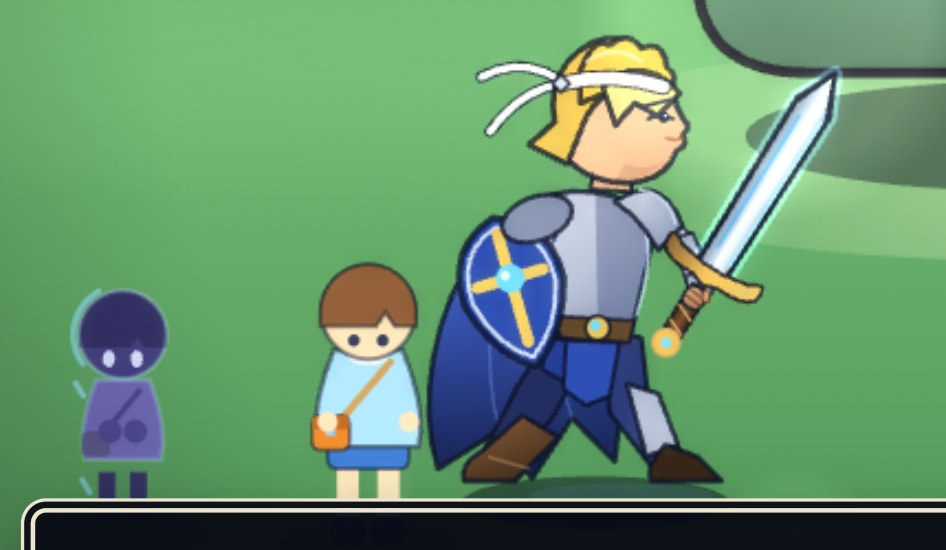
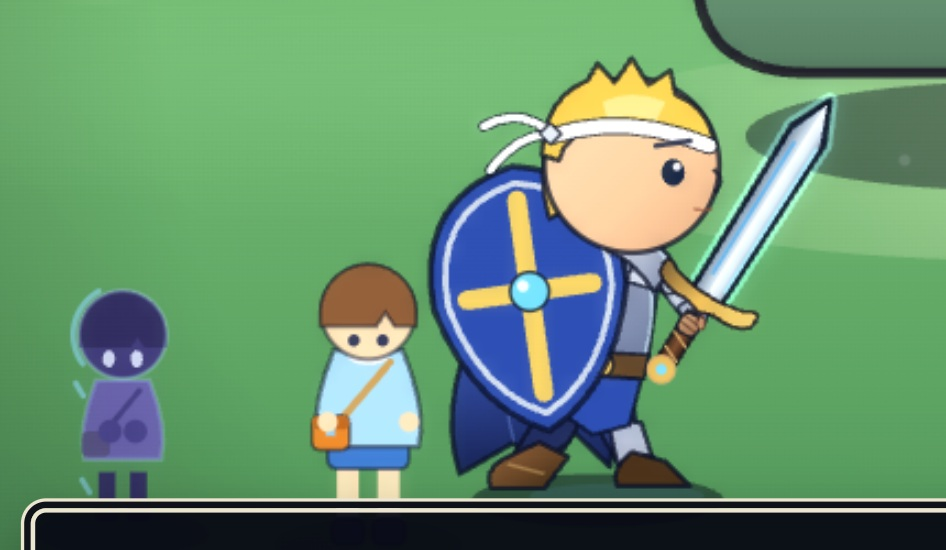
勇者の体を2.5頭身へ作り直し v20260810_1443(シート準拠・盾=体の6割)+/shimaのいま画像更新

Changed region(s): [[0.4292, 0.0, 0.981, 0.8964], [0.6438, 0.0, 0.6744, 0.0309]]

diff --git a/rpg.html b/rpg.html
@@ -907,7 +907,7 @@ const msgwinEl=$('#msgwin'), msgtextEl=$('#msgtext'), mfaceEl=$('#mface'), talks
 const enameEl=$('#ename'), toastEl=$('#toast'), battleUiEl=$('#ui-battle'), questEl=$('#quest');
 // 開きっぱなしの タブへ あたらしい 版を とどける(SPEC_gold_shuyaku §5・発注者「なんも変わらない」の根=タブは 勝手に 更新されない)
 // 強制リロードは しない(2026-07-11 進行破壊の 掟)。ゲームが 見つけて 知らせ、タップで きろくを 保存してから 入れ替える。
-const BUILD_V='20260810_1422'; // 配信の 版どり(§8)で この行を 実際の 版へ 書き換える
+const BUILD_V='20260810_1443'; // 配信の 版どり(§8)で この行を 実際の 版へ 書き換える
 let UPD_V=null;
 async function checkUpdate(){
   try{
@@ -18285,9 +18285,9 @@ function battleHeroStrikePoint(bt,kind){
   let hx=W*(0.36-0.075*wideK),hy=bt.heroY==null?H*0.80:bt.heroY;
   if(bt.intro)hx-=bt.intro*bt.intro*W*0.28;
   const guard=bt.guard?1:0,bodyY=hy+Math.sin((bt.t||0)*2.15)*u*0.7+guard*8*u;
-  let lx=30,ly=-110;
-  if(kind==='shield'){lx=Game.shield&&guard?31:18;ly=Game.shield&&guard?-91:-96;}
-  else if(kind==='chest'){lx=13;ly=-96;}
+  let lx=24,ly=-92; // チビ体型の かた(SPEC_chara_design §7)
+  if(kind==='shield'){lx=Game.shield&&guard?34:16;ly=Game.shield&&guard?-84:-86;}
+  else if(kind==='chest'){lx=13;ly=-80;}
   return{x:hx+lx*u,y:bodyY+ly*u,u};
 }
 function battleChildStrikePoint(bt){
@@ -26071,7 +26071,7 @@ function drawHeroBack(bt,ep){
   hx+=atk*W*(0.012+0.038*wideK)-hit*W*0.030-dodge*W*0.058;
   hy-=atk*H*0.018;hy+=hit*H*0.012+dodge*H*0.014;
   const crouch=guard*8*u+dodge*9*u,lean=atk*0.10-hit*0.21+guardHit*0.055-dodge*0.16;
-  const handX=(48+atk*11-guard*10-hit*8-guardHit*5-dodge*5)*u,handY=(-83+atk*13+guard*2+hit*9+guardHit*4+dodge*4)*u;
+  const handX=(46+atk*11-guard*10-hit*8-guardHit*5-dodge*5)*u,handY=(-72+atk*13+guard*2+hit*9+guardHit*4+dodge*4)*u; // チビ体型の 手(シート01)。踏み込みは 下の lunge式が 自動で 詰める
   const strikeSide=battleStrikeSide();
   const strikeTarget=ep?{
     x:ep.x+ep.s*strikeSide,
@@ -26113,13 +26113,13 @@ function drawHeroBack(bt,ep){
     tipX:handWX+Math.sin(bladeAngle)*105*u,
     tipY:handWY-Math.cos(bladeAngle)*105*u,
     targetX:strikeTarget.x,targetY:strikeTarget.y,
-    headX:hx+cs*16*u-sn*(-153*u),headY:bodyY+sn*16*u+cs*(-153*u),
+    headX:hx+cs*20*u-sn*(-134*u),headY:bodyY+sn*20*u+cs*(-134*u),
     angle:bladeAngle,length:105*u,u,phase:attackPhase
   };
   const OL='rgba(9,14,34,0.78)',RIM='rgba(213,239,255,0.68)';
   const ar=armorCol(),sw=swordCol();
   // 肩と既存の手座標を変えず、中点の法線側へ肘を置いて二節の腕にする。
-  const armSX=30*u,armSY=-110*u,armDX=handX-armSX,armDY=handY-armSY,armRaw=Math.hypot(armDX,armDY)||1;
+  const armSX=20*u,armSY=-92*u,armDX=handX-armSX,armDY=handY-armSY,armRaw=Math.hypot(armDX,armDY)||1;
   const armUX=armDX/armRaw,armUY=armDY/armRaw,armBend=(5.2+atk*1.2-guard*0.8-hit*1.4)*u;
   const elbowX=armSX+armDX*0.48+armUY*armBend,elbowY=armSY+armDY*0.48-armUX*armBend;
 
@@ -26127,68 +26127,67 @@ function drawHeroBack(bt,ep){
   ctx.translate(hx,bodyY);
   ctx.rotate(lean);
 
+  // ==== シート01準拠の 2.5頭身(2026-08-10 作り直し)。ぜんこう≈180u・頭r36=4割・盾r52=体の6割 ====
   // 地面へ食い込む横長の影。踏み込みで敵側へ伸びる。
   ctx.fillStyle='rgba(3,7,22,0.48)';
-  ctx.beginPath();ctx.ellipse(5*u+atk*8*u,5*u,55*u+atk*8*u,11*u,0,0,Math.PI*2);ctx.fill();
+  ctx.beginPath();ctx.ellipse(6*u+atk*8*u,4*u,52*u+atk*8*u,11*u,0,0,Math.PI*2);ctx.fill();
   ctx.fillStyle='rgba(105,156,221,0.12)';
-  ctx.beginPath();ctx.ellipse(16*u,2*u,38*u,5*u,0,0,Math.PI*2);ctx.fill();
+  ctx.beginPath();ctx.ellipse(14*u,2*u,36*u,5*u,0,0,Math.PI*2);ctx.fill();
 
-  // 蒼いマント：袋形をやめ、風を受けて左へ流れる三つ裂きの輪郭。
+  // 蒼いマント：かたから ひだりへ ながれる 三つ裂き。
   const capeLag=wind*3-atk*13+hit*5;
-  const cg=ctx.createLinearGradient(-35*u,-122*u,-28*u,-8*u);
+  const cg=ctx.createLinearGradient(-30*u,-100*u,-24*u,-6*u);
   cg.addColorStop(0,'#5878dc');cg.addColorStop(0.45,'#334c9d');cg.addColorStop(1,'#151f4a');
   ctx.fillStyle=cg;ctx.strokeStyle=OL;ctx.lineWidth=Math.max(1.4,u*2.2);ctx.lineJoin='round';
   ctx.beginPath();
-  ctx.moveTo(-20*u,-119*u);ctx.quadraticCurveTo(-48*u,-104*u,(-61+capeLag)*u,-67*u);
-  ctx.quadraticCurveTo((-70+capeLag)*u,-35*u,(-62+capeLag)*u,-9*u);
-  ctx.lineTo((-36+capeLag*0.7)*u,-25*u);ctx.lineTo((-22+capeLag*0.45)*u,-5*u);
-  ctx.lineTo((-5+capeLag*0.22)*u,-30*u);ctx.lineTo(13*u,-12*u);
-  ctx.quadraticCurveTo(20*u,-66*u,22*u,-111*u);ctx.closePath();ctx.fill();ctx.stroke();
+  ctx.moveTo(-12*u,-96*u);ctx.quadraticCurveTo(-40*u,-84*u,(-52+capeLag)*u,-54*u);
+  ctx.quadraticCurveTo((-60+capeLag)*u,-28*u,(-53+capeLag)*u,-7*u);
+  ctx.lineTo((-30+capeLag*0.7)*u,-20*u);ctx.lineTo((-18+capeLag*0.45)*u,-4*u);
+  ctx.lineTo((-4+capeLag*0.22)*u,-24*u);ctx.lineTo(11*u,-10*u);
+  ctx.quadraticCurveTo(17*u,-52*u,20*u,-90*u);ctx.closePath();ctx.fill();ctx.stroke();
   ctx.strokeStyle='rgba(121,161,240,0.32)';ctx.lineWidth=Math.max(1,u*1.3);
-  ctx.beginPath();ctx.moveTo(-34*u,-104*u);ctx.quadraticCurveTo((-45+capeLag)*u,-53*u,(-36+capeLag*.7)*u,-25*u);ctx.stroke();
-  ctx.beginPath();ctx.moveTo(-8*u,-110*u);ctx.quadraticCurveTo((-17+capeLag*.4)*u,-60*u,(-5+capeLag*.22)*u,-30*u);ctx.stroke();
+  ctx.beginPath();ctx.moveTo(-26*u,-84*u);ctx.quadraticCurveTo((-38+capeLag)*u,-44*u,(-30+capeLag*.7)*u,-20*u);ctx.stroke();
 
-  // 奥脚：後ろへ残して踏ん張る。
+  // 奥脚：みじかく ふとく。うしろへ のこして ふんばる。
   ctx.fillStyle='#202b58';ctx.strokeStyle=OL;ctx.lineWidth=Math.max(1.3,u*2);
-  ctx.beginPath();ctx.moveTo(-11*u,-68*u);ctx.lineTo(4*u,-62*u);ctx.lineTo(-12*u,-31*u);ctx.lineTo(-31*u,-7*u);ctx.lineTo(-43*u,-12*u);ctx.lineTo(-27*u,-43*u);ctx.closePath();ctx.fill();ctx.stroke();
-  const bootG=ctx.createLinearGradient(-37*u,-30*u,-25*u,2*u);bootG.addColorStop(0,'#78502f');bootG.addColorStop(1,'#342316');
+  ctx.beginPath();ctx.moveTo(-8*u,-44*u);ctx.lineTo(6*u,-40*u);ctx.lineTo(-6*u,-20*u);ctx.lineTo(-20*u,-10*u);ctx.lineTo(-28*u,-16*u);ctx.lineTo(-18*u,-32*u);ctx.closePath();ctx.fill();ctx.stroke();
+  const bootG=ctx.createLinearGradient(-30*u,-20*u,-18*u,0);bootG.addColorStop(0,'#8a5c34');bootG.addColorStop(1,'#4a3018');
   ctx.fillStyle=bootG;
-  ctx.beginPath();ctx.moveTo(-25*u,-31*u);ctx.lineTo(-10*u,-22*u);ctx.lineTo(-28*u,-4*u);ctx.lineTo(-49*u,-4*u);ctx.quadraticCurveTo(-51*u,-11*u,-42*u,-16*u);ctx.closePath();ctx.fill();ctx.stroke();
-  ctx.strokeStyle='rgba(235,197,118,0.32)';ctx.lineWidth=Math.max(1,u*1.4);ctx.beginPath();ctx.moveTo(-39*u,-14*u);ctx.lineTo(-22*u,-9*u);ctx.stroke();
+  ctx.beginPath();ctx.moveTo(-18*u,-20*u);ctx.lineTo(-6*u,-14*u);ctx.lineTo(-16*u,-1*u);ctx.lineTo(-38*u,-1*u);ctx.quadraticCurveTo(-41*u,-8*u,-33*u,-13*u);ctx.closePath();ctx.fill();ctx.stroke();
+  ctx.strokeStyle='rgba(235,197,118,0.4)';ctx.lineWidth=Math.max(1,u*1.4);ctx.beginPath();ctx.moveTo(-31*u,-11*u);ctx.lineTo(-16*u,-7*u);ctx.stroke();
 
-  // 前脚：敵側へ踏み込み、膝・脛当て・靴を分ける。
+  // 前脚：てき側へ ふみこむ。おおきな くつ。
   const step=atk*12-hit*5-guardHit*2-dodge*7;
   ctx.fillStyle='#2b3970';ctx.strokeStyle=OL;ctx.lineWidth=Math.max(1.3,u*2);
-  ctx.beginPath();ctx.moveTo(7*u,-67*u);ctx.lineTo(24*u,-63*u);ctx.lineTo((27+step*.35)*u,-36*u);ctx.lineTo((43+step)*u,-12*u);ctx.lineTo((32+step)*u,-5*u);ctx.lineTo((11+step*.2)*u,-32*u);ctx.closePath();ctx.fill();ctx.stroke();
+  ctx.beginPath();ctx.moveTo(6*u,-44*u);ctx.lineTo(20*u,-42*u);ctx.lineTo((22+step*.35)*u,-24*u);ctx.lineTo((30+step)*u,-12*u);ctx.lineTo((18+step*.5)*u,-6*u);ctx.lineTo((8+step*.2)*u,-22*u);ctx.closePath();ctx.fill();ctx.stroke();
   ctx.fillStyle=ar[2]||ar[0];
-  ctx.beginPath();ctx.moveTo((18+step*.2)*u,-44*u);ctx.lineTo((31+step*.45)*u,-40*u);ctx.lineTo((39+step*.72)*u,-19*u);ctx.lineTo((26+step*.45)*u,-14*u);ctx.closePath();ctx.fill();ctx.stroke();
+  ctx.beginPath();ctx.moveTo((10+step*.2)*u,-30*u);ctx.lineTo((24+step*.45)*u,-28*u);ctx.lineTo((28+step*.6)*u,-15*u);ctx.lineTo((14+step*.4)*u,-11*u);ctx.closePath();ctx.fill();ctx.stroke();
   ctx.fillStyle=bootG;
-  ctx.beginPath();ctx.moveTo((34+step*.68)*u,-19*u);ctx.lineTo((47+step)*u,-14*u);ctx.lineTo((57+step)*u,-4*u);ctx.lineTo((28+step*.72)*u,-4*u);ctx.quadraticCurveTo((25+step*.62)*u,-10*u,(34+step*.68)*u,-19*u);ctx.closePath();ctx.fill();ctx.stroke();
+  ctx.beginPath();ctx.moveTo((20+step*.6)*u,-16*u);ctx.lineTo((34+step)*u,-12*u);ctx.lineTo((44+step)*u,-2*u);ctx.lineTo((14+step*.6)*u,-2*u);ctx.quadraticCurveTo((11+step*.5)*u,-9*u,(20+step*.6)*u,-16*u);ctx.closePath();ctx.fill();ctx.stroke();
 
-  // 胸甲：逆三角の体幹と装備段階の色を反映。
-  const tg=ctx.createLinearGradient(-20*u,-126*u,24*u,-61*u);tg.addColorStop(0,ar[0]);tg.addColorStop(0.52,ar[2]||ar[0]);tg.addColorStop(1,ar[1]);
+  // 胴：ひくく ひろい 逆だいけい+装備段階の いろ。
+  const tg=ctx.createLinearGradient(-16*u,-100*u,28*u,-48*u);tg.addColorStop(0,ar[0]);tg.addColorStop(0.52,ar[2]||ar[0]);tg.addColorStop(1,ar[1]);
   ctx.fillStyle=tg;ctx.strokeStyle=OL;ctx.lineWidth=Math.max(1.5,u*2.2);
-  ctx.beginPath();ctx.moveTo(-20*u,-119*u);ctx.quadraticCurveTo(2*u,-130*u,31*u,-113*u);ctx.lineTo(20*u,-66*u);ctx.lineTo(-12*u,-66*u);ctx.lineTo(-27*u,-102*u);ctx.closePath();ctx.fill();ctx.stroke();
-  // 胸甲の面分けと敵側のリム光。
-  ctx.fillStyle='rgba(26,43,92,0.30)';
-  ctx.beginPath();ctx.moveTo(5*u,-123*u);ctx.lineTo(31*u,-113*u);ctx.lineTo(20*u,-67*u);ctx.lineTo(6*u,-73*u);ctx.closePath();ctx.fill();
-  ctx.strokeStyle=RIM;ctx.lineWidth=Math.max(1,u*1.35);ctx.beginPath();ctx.moveTo(19*u,-118*u);ctx.quadraticCurveTo(33*u,-106*u,22*u,-72*u);ctx.stroke();
-  // 腰帯と蒼珠を思わせる留め具。
+  ctx.beginPath();ctx.moveTo(-16*u,-94*u);ctx.quadraticCurveTo(4*u,-104*u,32*u,-94*u);ctx.lineTo(26*u,-50*u);ctx.lineTo(-12*u,-50*u);ctx.closePath();ctx.fill();ctx.stroke();
+  ctx.fillStyle='rgba(26,43,92,0.28)';
+  ctx.beginPath();ctx.moveTo(10*u,-100*u);ctx.lineTo(32*u,-94*u);ctx.lineTo(26*u,-51*u);ctx.lineTo(12*u,-55*u);ctx.closePath();ctx.fill();
+  ctx.strokeStyle=RIM;ctx.lineWidth=Math.max(1,u*1.35);ctx.beginPath();ctx.moveTo(22*u,-96*u);ctx.quadraticCurveTo(33*u,-84*u,25*u,-54*u);ctx.stroke();
+  // 腰帯+金の とめがね(蒼珠)。
   ctx.fillStyle='#604427';ctx.strokeStyle=OL;ctx.lineWidth=Math.max(1,u*1.5);
-  ctx.beginPath();ctx.moveTo(-13*u,-72*u);ctx.lineTo(21*u,-70*u);ctx.lineTo(19*u,-61*u);ctx.lineTo(-9*u,-63*u);ctx.closePath();ctx.fill();ctx.stroke();
-  ctx.fillStyle='#e3bd58';ctx.beginPath();ctx.arc(6*u,-67*u,5*u,0,Math.PI*2);ctx.fill();ctx.stroke();
-  ctx.fillStyle='#72d6f0';ctx.beginPath();ctx.arc(5*u,-68*u,2.2*u,0,Math.PI*2);ctx.fill();
-  // 腰布(シート01の 青)。うえの 装備色とは 独立の 本人の 青
+  ctx.beginPath();ctx.moveTo(-13*u,-58*u);ctx.lineTo(27*u,-56*u);ctx.lineTo(25*u,-46*u);ctx.lineTo(-11*u,-48*u);ctx.closePath();ctx.fill();ctx.stroke();
+  ctx.fillStyle='#e3bd58';ctx.beginPath();ctx.arc(7*u,-52*u,5.4*u,0,Math.PI*2);ctx.fill();ctx.stroke();
+  ctx.fillStyle='#72d6f0';ctx.beginPath();ctx.arc(6*u,-53*u,2.4*u,0,Math.PI*2);ctx.fill();
+  // 腰布(シートの 青)。
   ctx.fillStyle='#2b4aa6';ctx.strokeStyle=OL;ctx.lineWidth=Math.max(1.2,u*1.8);
-  ctx.beginPath();ctx.moveTo(-9*u,-62*u);ctx.lineTo(15*u,-61*u);ctx.lineTo(11*u,-39*u);ctx.lineTo(1*u,-35*u);ctx.lineTo(-8*u,-42*u);ctx.closePath();ctx.fill();ctx.stroke();
+  ctx.beginPath();ctx.moveTo(-6*u,-48*u);ctx.lineTo(24*u,-46*u);ctx.lineTo(19*u,-27*u);ctx.lineTo(4*u,-23*u);ctx.lineTo(-6*u,-30*u);ctx.closePath();ctx.fill();ctx.stroke();
   ctx.fillStyle='#22398a';
-  ctx.beginPath();ctx.moveTo(-14*u,-63*u);ctx.lineTo(-7*u,-62*u);ctx.lineTo(-8*u,-45*u);ctx.lineTo(-17*u,-50*u);ctx.closePath();ctx.fill();ctx.stroke();
+  ctx.beginPath();ctx.moveTo(-13*u,-49*u);ctx.lineTo(-5*u,-48*u);ctx.lineTo(-6*u,-31*u);ctx.lineTo(-16*u,-37*u);ctx.closePath();ctx.fill();ctx.stroke();
 
-  // 左腕。詠唱では盾を背へ回し、開いた掌を敵へ向ける。
-  const palmX=(cast?43:-16)*u,palmY=(cast?-119:-88)*u;
-  ctx.strokeStyle='#23305f';ctx.lineWidth=Math.max(7,u*12);ctx.lineCap='round';
-  ctx.beginPath();ctx.moveTo(-16*u,-107*u);ctx.quadraticCurveTo(-25*u,-96*u,palmX,palmY);ctx.stroke();
-  ctx.strokeStyle=ar[2]||ar[0];ctx.lineWidth=Math.max(4,u*7);ctx.beginPath();ctx.moveTo(-16*u,-107*u);ctx.lineTo(palmX,palmY);ctx.stroke();
+  // 左腕。詠唱では ひらを 敵へ。ふだんは 盾の うしろ。
+  const palmX=(cast?42:-20)*u,palmY=(cast?-104:-64)*u;
+  ctx.strokeStyle='#23305f';ctx.lineWidth=Math.max(7,u*11);ctx.lineCap='round';
+  ctx.beginPath();ctx.moveTo(-10*u,-88*u);ctx.quadraticCurveTo(-18*u,-78*u,palmX,palmY);ctx.stroke();
+  ctx.strokeStyle=ar[2]||ar[0];ctx.lineWidth=Math.max(4,u*6.5);ctx.beginPath();ctx.moveTo(-10*u,-88*u);ctx.lineTo(palmX,palmY);ctx.stroke();
   ctx.fillStyle='#a06e46';ctx.strokeStyle=OL;ctx.lineWidth=Math.max(1,u*1.5);
   ctx.beginPath();ctx.arc(palmX,palmY,5.5*u,0,Math.PI*2);ctx.fill();ctx.stroke();
   if(cast){
@@ -26196,80 +26195,89 @@ function drawHeroBack(bt,ep){
     for(let i=-1;i<=1;i++){ctx.beginPath();ctx.moveTo(palmX+3*u,palmY+i*2*u);ctx.lineTo(palmX+10*u,palmY+i*5*u);ctx.stroke();}
   }
 
-  // 実際に所持している盾。防御時は前へ、通常時は左腕へ沿わせる。
+  // 盾：シートの 主役。まるい 青地+ぎんの ふち+ふとい 金十字+蒼い 芯。まもりで 前へ。
   if(Game.shield){
-    const sx=(guard?31+guardHit*4:-29)*u,sy=(guard?-91+guardHit*2:-84)*u,sk=guard?1.34+guardHit*0.10:1.18; // たて=シートの 大きさ(待機1.18)。ぼうぎょは それより 大きく 前へ(1.34)
-    ctx.save();ctx.translate(sx,sy);ctx.scale(sk,sk);ctx.rotate(guard?-0.08+guardHit*0.045:-0.28);
-    ctx.fillStyle=Game.shield2?CHARA_PAL.hero.shBase:CHARA_PAL.hero.shBase2;ctx.strokeStyle=OL;ctx.lineWidth=Math.max(1.5,u*2.3);
-    ctx.beginPath();ctx.moveTo(0,-25*u);ctx.quadraticCurveTo(19*u,-19*u,18*u,2*u);ctx.quadraticCurveTo(13*u,21*u,0,29*u);ctx.quadraticCurveTo(-13*u,21*u,-18*u,2*u);ctx.quadraticCurveTo(-19*u,-19*u,0,-25*u);ctx.closePath();ctx.fill();ctx.stroke();
-    ctx.strokeStyle=Game.shield2?CHARA_PAL.hero.shRim:'#c8a86a';ctx.lineWidth=Math.max(1,u*1.5);
-    ctx.beginPath();ctx.moveTo(0,-21.5*u);ctx.quadraticCurveTo(16*u,-16.5*u,15*u,2*u);ctx.quadraticCurveTo(11*u,18.5*u,0,25.5*u);ctx.quadraticCurveTo(-11*u,18.5*u,-15*u,2*u);ctx.quadraticCurveTo(-16*u,-16.5*u,0,-21.5*u);ctx.closePath();ctx.stroke();
-    ctx.strokeStyle=Game.shield2?'#e9c85f':'#e3b65f';ctx.lineWidth=Math.max(2,u*4.2);ctx.lineCap='round';
-    ctx.beginPath();ctx.moveTo(0,-19*u);ctx.lineTo(0,20*u);ctx.moveTo(-12*u,-3*u);ctx.lineTo(12*u,-3*u);ctx.stroke();
-    ctx.fillStyle='#6fd3ed';ctx.beginPath();ctx.arc(0,-3*u,5*u,0,Math.PI*2);ctx.fill();
-    ctx.fillStyle='rgba(255,255,255,0.85)';ctx.beginPath();ctx.arc(-1.4*u,-4.4*u,1.6*u,0,Math.PI*2);ctx.fill();
+    const sx=(guard?34+guardHit*4:-22)*u,sy=(guard?-84+guardHit*2:-82)*u,sk=guard?1.12+guardHit*0.08:1.0;
+    ctx.save();ctx.translate(sx,sy);ctx.scale(sk,sk);ctx.rotate(guard?-0.06+guardHit*0.045:-0.14);
+    ctx.fillStyle=Game.shield2?CHARA_PAL.hero.shBase:CHARA_PAL.hero.shBase2;ctx.strokeStyle=OL;ctx.lineWidth=Math.max(1.6,u*2.6);
+    ctx.beginPath();ctx.moveTo(0,-52*u);ctx.quadraticCurveTo(42*u,-44*u,40*u,2*u);ctx.quadraticCurveTo(30*u,44*u,0,58*u);ctx.quadraticCurveTo(-30*u,44*u,-40*u,2*u);ctx.quadraticCurveTo(-42*u,-44*u,0,-52*u);ctx.closePath();ctx.fill();ctx.stroke();
+    ctx.strokeStyle=Game.shield2?CHARA_PAL.hero.shRim:'#c8a86a';ctx.lineWidth=Math.max(1.4,u*2.6);
+    ctx.beginPath();ctx.moveTo(0,-45*u);ctx.quadraticCurveTo(36*u,-38*u,34*u,2*u);ctx.quadraticCurveTo(26*u,38*u,0,50.5*u);ctx.quadraticCurveTo(-26*u,38*u,-34*u,2*u);ctx.quadraticCurveTo(-36*u,-38*u,0,-45*u);ctx.closePath();ctx.stroke();
+    ctx.strokeStyle=Game.shield2?'#e9c85f':'#e3b65f';ctx.lineWidth=Math.max(3,u*8);ctx.lineCap='round';
+    ctx.beginPath();ctx.moveTo(0,-38*u);ctx.lineTo(0,42*u);ctx.moveTo(-26*u,0);ctx.lineTo(26*u,0);ctx.stroke();
+    ctx.fillStyle='#6fd3ed';ctx.beginPath();ctx.arc(0,0,8*u,0,Math.PI*2);ctx.fill();
+    ctx.strokeStyle=OL;ctx.lineWidth=Math.max(1,u*1.4);ctx.beginPath();ctx.arc(0,0,8*u,0,Math.PI*2);ctx.stroke();
+    ctx.fillStyle='rgba(255,255,255,0.85)';ctx.beginPath();ctx.arc(-2.4*u,-2.6*u,2.4*u,0,Math.PI*2);ctx.fill();
     ctx.restore();
   }else if(guard){
-    ctx.strokeStyle='#d6e9ff';ctx.lineWidth=Math.max(2,u*4);ctx.beginPath();ctx.moveTo(-3*u,-107*u);ctx.lineTo(30*u,-78*u);ctx.stroke();
+    ctx.strokeStyle='#d6e9ff';ctx.lineWidth=Math.max(2,u*4);ctx.beginPath();ctx.moveTo(-2*u,-90*u);ctx.lineTo(32*u,-64*u);ctx.stroke();
   }
 
   // 剣腕を上腕・肘・前腕へ分ける。肩当てはこの上から重なり、腕の付け根を隠す。
-  drawBattleHeroLimb(armSX,armSY,elbowX,elbowY,5.8*u,5.1*u,ar[0],OL,'rgba(226,241,255,.28)');
-  drawBattleHeroLimb(elbowX,elbowY,handX,handY,5.0*u,4.3*u,ar[2]||ar[0],OL,'rgba(237,247,255,.34)');
+  drawBattleHeroLimb(armSX,armSY,elbowX,elbowY,6.2*u,5.4*u,ar[0],OL,'rgba(226,241,255,.28)');
+  drawBattleHeroLimb(elbowX,elbowY,handX,handY,5.3*u,4.6*u,ar[2]||ar[0],OL,'rgba(237,247,255,.34)');
   ctx.save();ctx.translate(elbowX,elbowY);ctx.rotate(Math.atan2(handY-elbowY,handX-elbowX));
   const eg=ctx.createLinearGradient(-8*u,-6*u,8*u,6*u);eg.addColorStop(0,ar[1]);eg.addColorStop(1,ar[0]);
   ctx.fillStyle=eg;ctx.strokeStyle=OL;ctx.lineWidth=Math.max(1,u*1.5);
   ctx.beginPath();ctx.moveTo(-5.5*u,-3.8*u);ctx.lineTo(3.5*u,-4.8*u);ctx.lineTo(6*u,0);ctx.lineTo(3.5*u,4.8*u);ctx.lineTo(-5.5*u,3.8*u);ctx.closePath();ctx.fill();ctx.stroke();
   ctx.restore();
 
-  // 左右非対称の肩当て。敵側を大きくして方向を作る。
-  ctx.fillStyle=ar[1];ctx.strokeStyle=OL;ctx.lineWidth=Math.max(1.3,u*2);
-  ctx.beginPath();ctx.ellipse(-19*u,-112*u,15*u,9*u,-0.35,0,Math.PI*2);ctx.fill();ctx.stroke();
-  const pg=ctx.createLinearGradient(15*u,-126*u,38*u,-99*u);pg.addColorStop(0,ar[0]);pg.addColorStop(1,ar[1]);
-  ctx.fillStyle=pg;ctx.beginPath();ctx.moveTo(13*u,-119*u);ctx.quadraticCurveTo(32*u,-132*u,41*u,-109*u);ctx.lineTo(31*u,-99*u);ctx.quadraticCurveTo(24*u,-112*u,13*u,-119*u);ctx.closePath();ctx.fill();ctx.stroke();
-  ctx.strokeStyle=RIM;ctx.lineWidth=Math.max(1,u*1.3);ctx.beginPath();ctx.moveTo(23*u,-124*u);ctx.quadraticCurveTo(36*u,-122*u,38*u,-110*u);ctx.stroke();
+  // 肩当ては 敵側だけ(ひだりは 盾が 覆う=シートどおり)。
+  ctx.strokeStyle=OL;ctx.lineWidth=Math.max(1.3,u*2);
+  const pg=ctx.createLinearGradient(12*u,-106*u,34*u,-84*u);pg.addColorStop(0,ar[0]);pg.addColorStop(1,ar[1]);
+  ctx.fillStyle=pg;ctx.beginPath();ctx.moveTo(10*u,-99*u);ctx.quadraticCurveTo(28*u,-112*u,38*u,-92*u);ctx.lineTo(29*u,-82*u);ctx.quadraticCurveTo(22*u,-94*u,10*u,-99*u);ctx.closePath();ctx.fill();ctx.stroke();
+  ctx.strokeStyle=RIM;ctx.lineWidth=Math.max(1,u*1.3);ctx.beginPath();ctx.moveTo(19*u,-104*u);ctx.quadraticCurveTo(33*u,-102*u,35*u,-92*u);ctx.stroke();
 
-  // 首と横顔。三角鼻をやめ、額→鼻梁→口元→顎を曲線でつなぐ。
-  ctx.fillStyle='#e5b488';ctx.strokeStyle=OL;ctx.lineWidth=Math.max(1.2,u*1.8);
-  ctx.beginPath();ctx.moveTo(3*u,-124*u);ctx.lineTo(20*u,-123*u);ctx.lineTo(19*u,-139*u);ctx.lineTo(6*u,-141*u);ctx.closePath();ctx.fill();ctx.stroke();
-  ctx.save();ctx.translate(16*u,-153*u);ctx.scale(1.32,1.32);ctx.translate(-16*u,153*u); // シート01の 2.5頭身=あたまだけ 1.32倍(中心不変・以下の 座標は 従来のまま)
-  // 鉢巻の二本の尾は髪と頭より後ろへ流す。(しろ=シート01。先に濃い縁でそらに とけないように)
-  ctx.strokeStyle=OL;ctx.lineWidth=Math.max(2.2,u*3.6);ctx.lineCap='round';
-  ctx.beginPath();ctx.moveTo(-3*u,-164*u);ctx.quadraticCurveTo((-18+wind*3-atk*5)*u,-162*u,(-29+wind*5-atk*8)*u,-149*u);ctx.stroke();
-  ctx.beginPath();ctx.moveTo(-3*u,-165*u);ctx.quadraticCurveTo((-17+wind*2-atk*4)*u,-173*u,(-31+wind*4-atk*7)*u,-166*u);ctx.stroke();
-  ctx.strokeStyle=CHARA_PAL.hero.band;ctx.lineWidth=Math.max(1.3,u*2.3);
-  ctx.beginPath();ctx.moveTo(-3*u,-164*u);ctx.quadraticCurveTo((-18+wind*3-atk*5)*u,-162*u,(-29+wind*5-atk*8)*u,-149*u);ctx.stroke();
-  ctx.beginPath();ctx.moveTo(-3*u,-165*u);ctx.quadraticCurveTo((-17+wind*2-atk*4)*u,-173*u,(-31+wind*4-atk*7)*u,-166*u);ctx.stroke();
-  // 耳を顔の後ろへ。小画面でも輪郭だけは残る。
-  ctx.fillStyle='#e8b98e';ctx.strokeStyle=OL;ctx.lineWidth=Math.max(1,u*1.35);
-  ctx.beginPath();ctx.ellipse(1*u,-151*u,4.5*u,6*u,-0.12,0,Math.PI*2);ctx.fill();ctx.stroke();
-  if(u>=0.9){ctx.strokeStyle='rgba(132,77,59,.48)';ctx.beginPath();ctx.arc(1*u,-151*u,2.2*u,-1.2,1.25);ctx.stroke();}
-  const skin=ctx.createLinearGradient(-5*u,-172*u,35*u,-135*u);skin.addColorStop(0,'#f5d4aa');skin.addColorStop(0.62,'#efc397');skin.addColorStop(1,'#dca67e');
+  // ==== おおきな あたま(中心(20,-134)・r36=シートの 2.5頭身の 要) ====
+  // うしろがみ(ひだりの かみの かたまり)
+  ctx.fillStyle=CHARA_PAL.hero.hairBk;ctx.strokeStyle=OL;ctx.lineJoin='round';ctx.lineWidth=Math.max(1.3,u*2);
+  ctx.beginPath();ctx.moveTo(-14*u,-112*u);ctx.quadraticCurveTo(-22*u,-140*u,-6*u,-160*u);ctx.lineTo(4*u,-146*u);ctx.lineTo(-2*u,-118*u);ctx.closePath();ctx.fill();ctx.stroke();
+  // かお(おおきな まる)
+  const skin=ctx.createLinearGradient(-6*u,-166*u,54*u,-104*u);skin.addColorStop(0,'#f5d4aa');skin.addColorStop(0.62,'#efc397');skin.addColorStop(1,'#dca67e');
+  ctx.fillStyle=skin;ctx.strokeStyle=OL;ctx.lineWidth=Math.max(1.4,u*2.2);
+  ctx.beginPath();ctx.arc(20*u,-134*u,36*u,0,Math.PI*2);ctx.fill();ctx.stroke();
+  // はなの ちいさな でっぱり(みぎの りんかく)
   ctx.fillStyle=skin;ctx.strokeStyle=OL;ctx.lineWidth=Math.max(1.2,u*1.8);
-  ctx.beginPath();ctx.moveTo(-4*u,-151*u);ctx.bezierCurveTo(-4*u,-169*u,7*u,-176*u,18*u,-174*u);
-  ctx.quadraticCurveTo(30*u,-171*u,32*u,-161*u);ctx.quadraticCurveTo(33*u,-156*u,35*u,-153*u);
-  ctx.quadraticCurveTo(38*u,-151*u,35*u,-148*u);ctx.quadraticCurveTo(37*u,-145*u,33*u,-143*u);
-  ctx.quadraticCurveTo(30*u,-134*u,18*u,-133*u);ctx.quadraticCurveTo(4*u,-133*u,-3*u,-143*u);ctx.closePath();ctx.fill();ctx.stroke();
-  // 顎下だけを一段暗くし、首との境を作る。
-  ctx.fillStyle='rgba(143,79,60,.18)';ctx.beginPath();ctx.moveTo(14*u,-134*u);ctx.quadraticCurveTo(24*u,-133*u,30*u,-141*u);ctx.quadraticCurveTo(25*u,-136*u,17*u,-139*u);ctx.closePath();ctx.fill();
-  // 後頭部、上の三房、前髪を別々に重ねる。
-  ctx.fillStyle=CHARA_PAL.hero.hairBk;ctx.strokeStyle=OL;ctx.lineJoin='round';ctx.lineWidth=Math.max(1.2,u*1.8);
-  ctx.beginPath();ctx.moveTo(-5*u,-152*u);ctx.quadraticCurveTo(-8*u,-169*u,7*u,-177*u);ctx.quadraticCurveTo(17*u,-181*u,26*u,-172*u);ctx.lineTo(25*u,-160*u);ctx.quadraticCurveTo(12*u,-166*u,5*u,-154*u);ctx.lineTo(-1*u,-139*u);ctx.lineTo(-13*u,-145*u);ctx.closePath();ctx.fill();ctx.stroke();
-  ctx.fillStyle=CHARA_PAL.hero.hair;
-  ctx.beginPath();ctx.moveTo(3*u,-168*u);ctx.quadraticCurveTo(7*u,-179*u,12*u,-176*u);ctx.quadraticCurveTo(18*u,-181*u,22*u,-175*u);ctx.quadraticCurveTo(29*u,-178*u,30*u,-169*u);ctx.quadraticCurveTo(34*u,-167*u,31*u,-160*u);ctx.quadraticCurveTo(18*u,-165*u,3*u,-158*u);ctx.closePath();ctx.fill();ctx.stroke();
-  ctx.fillStyle=CHARA_PAL.hero.hairHi;ctx.beginPath();ctx.moveTo(18*u,-168*u);ctx.quadraticCurveTo(28*u,-169*u,34*u,-161*u);ctx.lineTo(27*u,-154*u);ctx.lineTo(20*u,-158*u);ctx.lineTo(14*u,-151*u);ctx.lineTo(10*u,-163*u);ctx.closePath();ctx.fill();ctx.stroke();
-  ctx.strokeStyle='rgba(255,247,202,.58)';ctx.lineWidth=Math.max(1,u*1.2);ctx.beginPath();ctx.moveTo(5*u,-171*u);ctx.quadraticCurveTo(14*u,-177*u,22*u,-171*u);ctx.stroke();
-  // 額を横切る鉢巻は髪の前へ。尾と一本線に見えないよう結び目を置く。
-  ctx.strokeStyle=OL;ctx.lineWidth=Math.max(2.6,u*5.2);ctx.beginPath();ctx.moveTo(-3*u,-164*u);ctx.quadraticCurveTo(13*u,-168*u,29*u,-163*u);ctx.stroke();
-  ctx.strokeStyle=CHARA_PAL.hero.band;ctx.lineWidth=Math.max(2,u*4);ctx.beginPath();ctx.moveTo(-3*u,-164*u);ctx.quadraticCurveTo(13*u,-168*u,29*u,-163*u);ctx.stroke();
-  ctx.fillStyle='#dce4f0';ctx.strokeStyle=OL;ctx.lineWidth=Math.max(1,u*1.0);ctx.beginPath();ctx.moveTo(-5.8*u,-164*u);ctx.lineTo(-3*u,-166.8*u);ctx.lineTo(-0.2*u,-164*u);ctx.lineTo(-3*u,-161.2*u);ctx.closePath();ctx.fill();ctx.stroke();
-  // 表情。攻撃は眉を落とし、被弾では目を閉じる。
-  const browDrop=atk*2.2*u;
-  ctx.strokeStyle='#34384e';ctx.lineWidth=Math.max(1,u*1.2);ctx.beginPath();ctx.moveTo(23*u,-157*u+browDrop);ctx.lineTo(31*u,-159*u+browDrop);ctx.stroke();
-  if(hit>0.20){ctx.beginPath();ctx.moveTo(24*u,-152*u);ctx.quadraticCurveTo(28*u,-149*u,32*u,-152*u);ctx.stroke();}
-  else{ctx.beginPath();ctx.moveTo(24*u,-153*u);ctx.quadraticCurveTo(28*u,-155*u,32*u,-153*u);ctx.stroke();ctx.fillStyle='#15233f';ctx.beginPath();ctx.arc(29*u,-153.5*u,1.7*u,0,Math.PI*2);ctx.fill();ctx.fillStyle='rgba(255,255,255,.88)';ctx.beginPath();ctx.arc(29.5*u,-154*u,0.55*u,0,Math.PI*2);ctx.fill();}
-  ctx.strokeStyle='rgba(139,75,55,.66)';ctx.lineWidth=Math.max(1,u*1.1);ctx.beginPath();ctx.moveTo(35*u,-147*u);ctx.quadraticCurveTo(32*u,-146*u,30*u,-147*u);ctx.stroke();
-  ctx.restore(); // あたまの 1.32倍 ここまで
+  ctx.beginPath();ctx.moveTo(54*u,-132*u);ctx.quadraticCurveTo(59*u,-128*u,54.5*u,-123*u);ctx.stroke();
+  // かみ：おおきな ボウル+てっぺんの 3つの とがり(シートの 金)
+  ctx.fillStyle=CHARA_PAL.hero.hair;ctx.strokeStyle=OL;ctx.lineWidth=Math.max(1.3,u*2);
+  ctx.beginPath();
+  ctx.moveTo(-17*u,-138*u);
+  ctx.quadraticCurveTo(-16*u,-162*u,2*u,-169*u);
+  ctx.lineTo(6*u,-176*u);ctx.lineTo(13*u,-168*u);
+  ctx.lineTo(20*u,-178*u);ctx.lineTo(27*u,-167*u);
+  ctx.lineTo(36*u,-173*u);ctx.lineTo(38*u,-163*u);
+  ctx.quadraticCurveTo(52*u,-158*u,54*u,-142*u);
+  ctx.lineTo(44*u,-146*u);ctx.quadraticCurveTo(30*u,-152*u,12*u,-150*u);
+  ctx.quadraticCurveTo(-6*u,-150*u,-10*u,-136*u);ctx.closePath();ctx.fill();ctx.stroke();
+  ctx.fillStyle=CHARA_PAL.hero.hairHi;
+  ctx.beginPath();ctx.moveTo(8*u,-160*u);ctx.quadraticCurveTo(20*u,-166*u,34*u,-160*u);ctx.lineTo(30*u,-152*u);ctx.quadraticCurveTo(20*u,-156*u,10*u,-153*u);ctx.closePath();ctx.fill();
+  // はちまき(しろ・ふとい)+むすびめ+ながれる 2本の 尾
+  ctx.lineCap='round';
+  ctx.strokeStyle=OL;ctx.lineWidth=Math.max(3.2,u*7.4);
+  ctx.beginPath();ctx.moveTo(-13*u,-146*u);ctx.quadraticCurveTo(18*u,-156*u,52*u,-142*u);ctx.stroke();
+  ctx.strokeStyle=CHARA_PAL.hero.band;ctx.lineWidth=Math.max(2.4,u*5.8);
+  ctx.beginPath();ctx.moveTo(-13*u,-146*u);ctx.quadraticCurveTo(18*u,-156*u,52*u,-142*u);ctx.stroke();
+  ctx.strokeStyle=OL;ctx.lineWidth=Math.max(2.6,u*4.6);
+  ctx.beginPath();ctx.moveTo(-14*u,-147*u);ctx.quadraticCurveTo((-30+wind*3-atk*5)*u,-146*u,(-42+wind*5-atk*8)*u,-132*u);ctx.stroke();
+  ctx.beginPath();ctx.moveTo(-14*u,-148*u);ctx.quadraticCurveTo((-28+wind*2-atk*4)*u,-158*u,(-44+wind*4-atk*7)*u,-150*u);ctx.stroke();
+  ctx.strokeStyle=CHARA_PAL.hero.band;ctx.lineWidth=Math.max(1.6,u*3.2);
+  ctx.beginPath();ctx.moveTo(-14*u,-147*u);ctx.quadraticCurveTo((-30+wind*3-atk*5)*u,-146*u,(-42+wind*5-atk*8)*u,-132*u);ctx.stroke();
+  ctx.beginPath();ctx.moveTo(-14*u,-148*u);ctx.quadraticCurveTo((-28+wind*2-atk*4)*u,-158*u,(-44+wind*4-atk*7)*u,-150*u);ctx.stroke();
+  ctx.fillStyle='#dce4f0';ctx.strokeStyle=OL;ctx.lineWidth=Math.max(1,u*1.2);
+  ctx.beginPath();ctx.moveTo(-18*u,-147*u);ctx.lineTo(-13.5*u,-151.5*u);ctx.lineTo(-9*u,-147*u);ctx.lineTo(-13.5*u,-142.5*u);ctx.closePath();ctx.fill();ctx.stroke();
+  // 表情：おおきな め+まゆ。こうげきで まゆが さがり、被弾で とじる。
+  const browDrop=atk*2.6*u;
+  ctx.strokeStyle='#34384e';ctx.lineWidth=Math.max(1.4,u*2.2);ctx.lineCap='round';
+  ctx.beginPath();ctx.moveTo(30*u,-142*u+browDrop);ctx.lineTo(44*u,-144*u+browDrop);ctx.stroke();
+  if(hit>0.20){
+    ctx.lineWidth=Math.max(1.4,u*2);ctx.beginPath();ctx.moveTo(32*u,-132*u);ctx.quadraticCurveTo(37*u,-128*u,43*u,-132*u);ctx.stroke();
+  }else{
+    ctx.fillStyle='#15233f';ctx.beginPath();ctx.ellipse(37*u,-131*u,4.8*u,5.6*u,0,0,Math.PI*2);ctx.fill();
+    ctx.fillStyle='rgba(255,255,255,.9)';ctx.beginPath();ctx.arc(38.6*u,-133.4*u,1.7*u,0,Math.PI*2);ctx.fill();
+  }
+  ctx.strokeStyle='rgba(139,75,55,.66)';ctx.lineWidth=Math.max(1,u*1.4);
+  ctx.beginPath();ctx.moveTo(46*u,-116*u);ctx.quadraticCurveTo(50*u,-114.5*u,53*u,-116*u);ctx.stroke();
 
   // 手首の手甲は剣の下、掌と指は剣の上。柄を実際につかむ重なり順にする。
   ctx.save();ctx.translate(handX,handY);ctx.rotate(Math.atan2(handY-elbowY,handX-elbowX));
@@ -26278,27 +26286,29 @@ function drawHeroBack(bt,ep){
   ctx.beginPath();ctx.moveTo(-7*u,-4*u);ctx.lineTo(2.5*u,-5*u);ctx.lineTo(6*u,0);ctx.lineTo(2.5*u,5*u);ctx.lineTo(-7*u,4*u);ctx.closePath();ctx.fill();ctx.stroke();ctx.restore();
   ctx.save();ctx.translate(handX,handY);ctx.rotate(swordRot);
   drawBattleHeroSword(u,sw);
-  const glove=ctx.createLinearGradient(-5*u,0,5*u,11*u);glove.addColorStop(0,'#d9ae82');glove.addColorStop(1,'#8d593b');
+  const glove=ctx.createLinearGradient(-5*u,0,5*u,12*u);glove.addColorStop(0,'#e2bc90');glove.addColorStop(1,'#a06a44'); // 小画面で 飾りが 中身を 食わない ように 大きめ+あかるめ(finishの はだ色契約)
   ctx.fillStyle=glove;ctx.strokeStyle=OL;ctx.lineWidth=Math.max(1,u*1.35);
-  ctx.beginPath();ctx.roundRect(-4.4*u,-0.2*u,8.8*u,9*u,3*u);ctx.fill();ctx.stroke();
-  ctx.strokeStyle='rgba(91,53,40,.76)';ctx.lineWidth=Math.max(1,u*1.0);
-  for(let y=2;y<=5;y+=3){ctx.beginPath();ctx.moveTo(-3.8*u,y*u);ctx.lineTo(3.8*u,(y+0.8)*u);ctx.stroke();}
-  ctx.fillStyle='#c99268';ctx.beginPath();ctx.ellipse(3.8*u,1.2*u,1.6*u,2.7*u,-0.52,0,Math.PI*2);ctx.fill();ctx.stroke();
+  ctx.beginPath();ctx.roundRect(-5.2*u,-0.2*u,10.4*u,10.4*u,3.2*u);ctx.fill();ctx.stroke();
+  if(u>=0.8){
+    ctx.strokeStyle='rgba(91,53,40,.7)';ctx.lineWidth=Math.max(1,u*1.0);
+    for(let y=3;y<=6;y+=3){ctx.beginPath();ctx.moveTo(-4.4*u,y*u);ctx.lineTo(4.4*u,(y+0.8)*u);ctx.stroke();}
+    ctx.fillStyle='#cf9a6c';ctx.beginPath();ctx.ellipse(4.4*u,1.4*u,1.8*u,3*u,-0.52,0,Math.PI*2);ctx.fill();ctx.stroke();
+  }
   ctx.restore();
 
   // 防御は盾の外周に沿う光。浮いた半円記号にはしない。
   if(guard){
     ctx.save();ctx.globalCompositeOperation='lighter';
     ctx.strokeStyle='rgba(171,218,255,0.78)';ctx.lineWidth=Math.max(2,u*4);ctx.lineCap='round';
-    ctx.beginPath();ctx.arc(29*u,-91*u,38*u,-1.42,1.22);ctx.stroke();
-    ctx.strokeStyle='rgba(225,247,255,0.45)';ctx.lineWidth=Math.max(1,u*1.5);ctx.beginPath();ctx.arc(29*u,-91*u,46*u,-1.26,1.03);ctx.stroke();ctx.restore();
+    ctx.beginPath();ctx.arc(32*u,-80*u,42*u,-1.42,1.22);ctx.stroke();
+    ctx.strokeStyle='rgba(225,247,255,0.45)';ctx.lineWidth=Math.max(1,u*1.5);ctx.beginPath();ctx.arc(32*u,-80*u,50*u,-1.26,1.03);ctx.stroke();ctx.restore();
   }
   if(guardHit>0){
     ctx.save();ctx.globalCompositeOperation='lighter';ctx.lineCap='round';
     ctx.strokeStyle='rgba(205,242,255,'+(0.90*guardHit).toFixed(3)+')';ctx.lineWidth=Math.max(2,u*4.5);
-    ctx.beginPath();ctx.arc(31*u,-91*u,(34+guardHit*9)*u,-1.52,1.27);ctx.stroke();
+    ctx.beginPath();ctx.arc(33*u,-80*u,(38+guardHit*9)*u,-1.52,1.27);ctx.stroke();
     ctx.strokeStyle='rgba(126,200,255,'+(0.72*guardHit).toFixed(3)+')';ctx.lineWidth=Math.max(1,u*2);
-    for(let i=0;i<5;i++){const a=-1.05+i*0.47,r=38*u;ctx.beginPath();ctx.moveTo(31*u+Math.cos(a)*r,-91*u+Math.sin(a)*r);ctx.lineTo(31*u+Math.cos(a)*(r+12*u),-91*u+Math.sin(a)*(r+12*u));ctx.stroke();}
+    for(let i=0;i<5;i++){const a=-1.05+i*0.47,r=42*u;ctx.beginPath();ctx.moveTo(33*u+Math.cos(a)*r,-80*u+Math.sin(a)*r);ctx.lineTo(33*u+Math.cos(a)*(r+12*u),-80*u+Math.sin(a)*(r+12*u));ctx.stroke();}
     ctx.restore();
   }
 
@@ -26317,14 +26327,14 @@ function drawHeroBack(bt,ep){
   // 被弾は赤い丸で塗り潰さず、輪郭の縁光と飛び散る火花にする。
   if(hit>0){
     ctx.save();ctx.globalCompositeOperation='lighter';ctx.strokeStyle='rgba(255,209,183,'+(0.72*hit).toFixed(3)+')';ctx.lineWidth=Math.max(2,u*4);
-    ctx.beginPath();ctx.arc(7*u,-91*u,53*u,-1.25,1.26);ctx.stroke();
+    ctx.beginPath();ctx.arc(9*u,-84*u,55*u,-1.25,1.26);ctx.stroke();
     ctx.strokeStyle='rgba(255,92,70,'+(0.82*hit).toFixed(3)+')';ctx.lineWidth=Math.max(1.2,u*2.2);
-    for(let i=0;i<6;i++){const a=-1.05+i*0.42,r=(43+i%2*9)*u;ctx.beginPath();ctx.moveTo(20*u+Math.cos(a)*r,-94*u+Math.sin(a)*r);ctx.lineTo(20*u+Math.cos(a)*(r+13*u),-94*u+Math.sin(a)*(r+13*u));ctx.stroke();}
+    for(let i=0;i<6;i++){const a=-1.05+i*0.42,r=(45+i%2*9)*u;ctx.beginPath();ctx.moveTo(18*u+Math.cos(a)*r,-86*u+Math.sin(a)*r);ctx.lineTo(18*u+Math.cos(a)*(r+13*u),-86*u+Math.sin(a)*(r+13*u));ctx.stroke();}
     ctx.restore();
   }
   if(dodge>0){
     ctx.save();ctx.globalCompositeOperation='lighter';ctx.strokeStyle='rgba(191,231,255,'+(0.42*dodge).toFixed(3)+')';ctx.lineWidth=Math.max(1,u*1.8);ctx.lineCap='round';
-    for(let i=0;i<3;i++){ctx.beginPath();ctx.moveTo((48+i*9)*u,(-122+i*29)*u);ctx.lineTo((75+i*10)*u,(-128+i*29)*u);ctx.stroke();}
+    for(let i=0;i<3;i++){ctx.beginPath();ctx.moveTo((48+i*9)*u,(-118+i*26)*u);ctx.lineTo((75+i*10)*u,(-124+i*26)*u);ctx.stroke();}
     ctx.restore();
   }
   ctx.restore();

diff --git a/shima/index.html b/shima/index.html
@@ -22,10 +22,10 @@
 </style></head><body>
 <header>
 <h1>しまが かわる</h1>
-<p class="sub">はん <b>20260810_1422</b>（配信中）</p>
+<p class="sub">はん <b>20260810_1443</b>（配信中）</p>
 </header>
 
-<a class="go" href="../rpg.html?v=20260810_1422">▶ ゲームを ひらく</a>
+<a class="go" href="../rpg.html?v=20260810_1443">▶ ゲームを ひらく</a>
 <a class="go" href="../guide/" style="background:#241f30;border-color:#5a4a78;color:#e6d8ff">📖 攻略の書を ひらく<span style="display:block;font-size:13px;font-weight:normal;color:#b3a5cf;margin-top:4px">画面の 金の帯の ことばで 引ける ― 島の あそび方・まもの109体</span></a>
 
 <h2>★なおした: タイトルの「ふっかつの じゅもん」に なんの ボタンかを 1行</h2>
@@ -442,7 +442,7 @@
 <img src="ipad2.jpg" alt="iPad縦 2/3">
 <img src="ipad3.jpg" alt="iPad縦 3/3">
 
-<a class="go" href="../rpg.html?v=20260810_1422">▶ ゲームを ひらく</a>
+<a class="go" href="../rpg.html?v=20260810_1443">▶ ゲームを ひらく</a>
 
 <h2>★あたらしい: くらのしまに あたらしい あそび「ぬすみと はたき」</h2>
 <p class="note"><b>ぬしの「しまいこむもの」が、戦う まえから うごきだします。</b>

diff --git a/index.html b/index.html
@@ -39,11 +39,11 @@ a.btn:active{background:rgba(255,255,255,.11)}
  <h1>蒼の勇者</h1>
  <p class="sub">二十一の章と、八つの島と、百九のまもの。<br>ブラウザだけで あそべます。</p>
 
- <a class="btn play" href="./rpg.html?v=20260810_1422"><b>▶ ゲームを はじめる</b><span>つづきから／さいしょから</span></a>
+ <a class="btn play" href="./rpg.html?v=20260810_1443"><b>▶ ゲームを はじめる</b><span>つづきから／さいしょから</span></a>
  <a class="btn" href="./guide/"><b>📖 攻略の書</b><span>画面の 金の帯の ことばで 引ける ― 三十六の ばしょ・島の あそび方・まもの図鑑</span></a>
  <a class="btn" href="./shima/"><b>🏝 しまの あそび</b><span>直したところの「まえ／いま」の 写真</span></a>
 
- <div class="foot"><a href="./rpg.html?v=20260810_1422">版 20260810_1422</a></div>
+ <div class="foot"><a href="./rpg.html?v=20260810_1443">版 20260810_1443</a></div>
 </main>
 </body>
 </html>
